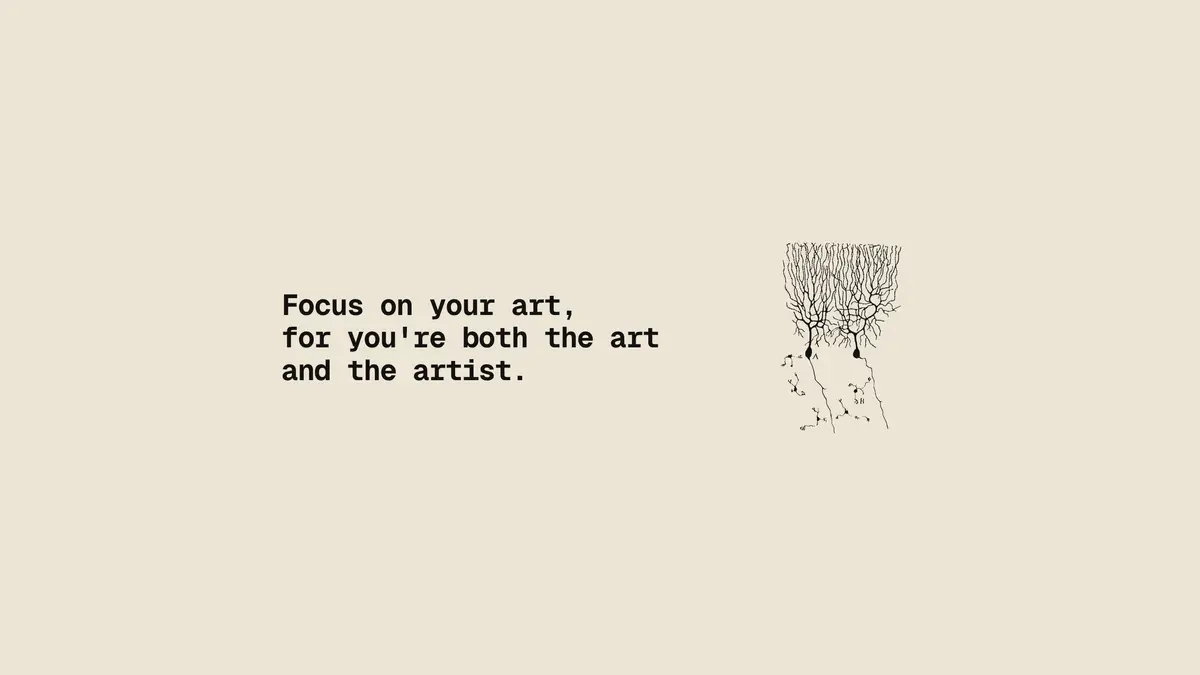
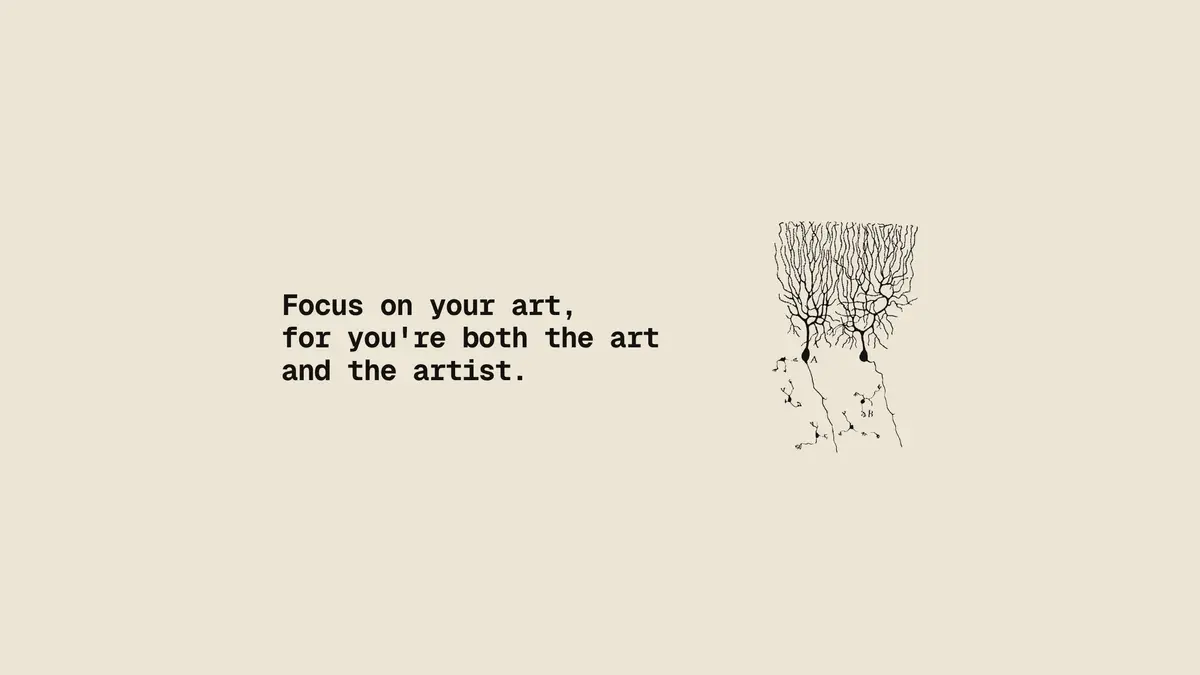
Branding: Cajal neurons run edge to edge

Changed region(s): [[0.6475, 0.3111, 0.7708, 0.6533]]

diff --git a/personal-branding/render.py b/personal-branding/render.py
@@ -98,7 +98,9 @@ def avatars():
 # YouTube 2560x1440; her cihazda görünen güvenli alan 1546x423, ortada (x 507-2053, y 508-931).
 FIGURES = {
     #          dosya                 X: yükseklik, x, y     YouTube: yükseklik, x, y
-    "cajal": ("cajal-purkinje.webp", (480, 1080, 12), (412, 1660, 514)),
+    # Cajal runs edge to edge: it bleeds off the top and bottom of the X banner and of
+    # YouTube's visible strip (y 508-931).
+    "cajal": ("cajal-purkinje.webp", (600, 1060, -48), (500, 1640, 468)),
     "leonardo": ("leonardo-head.webp", (490, 1140, 6), (412, 1720, 514)),
 }
 
